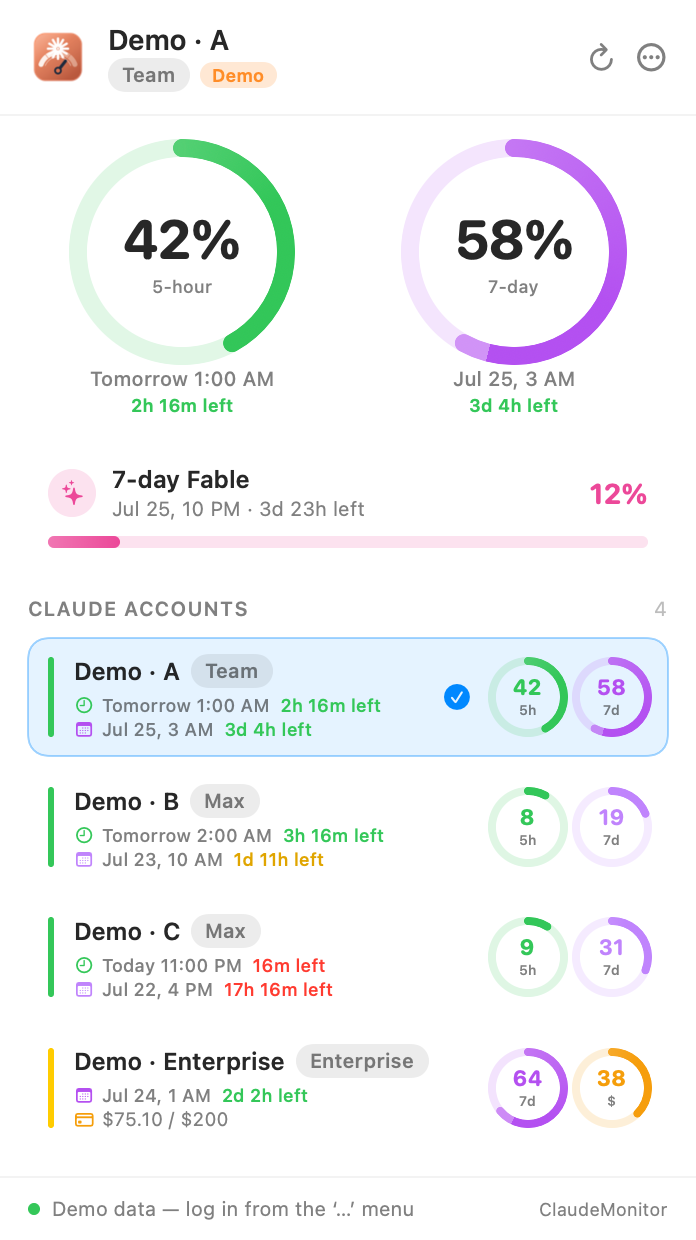
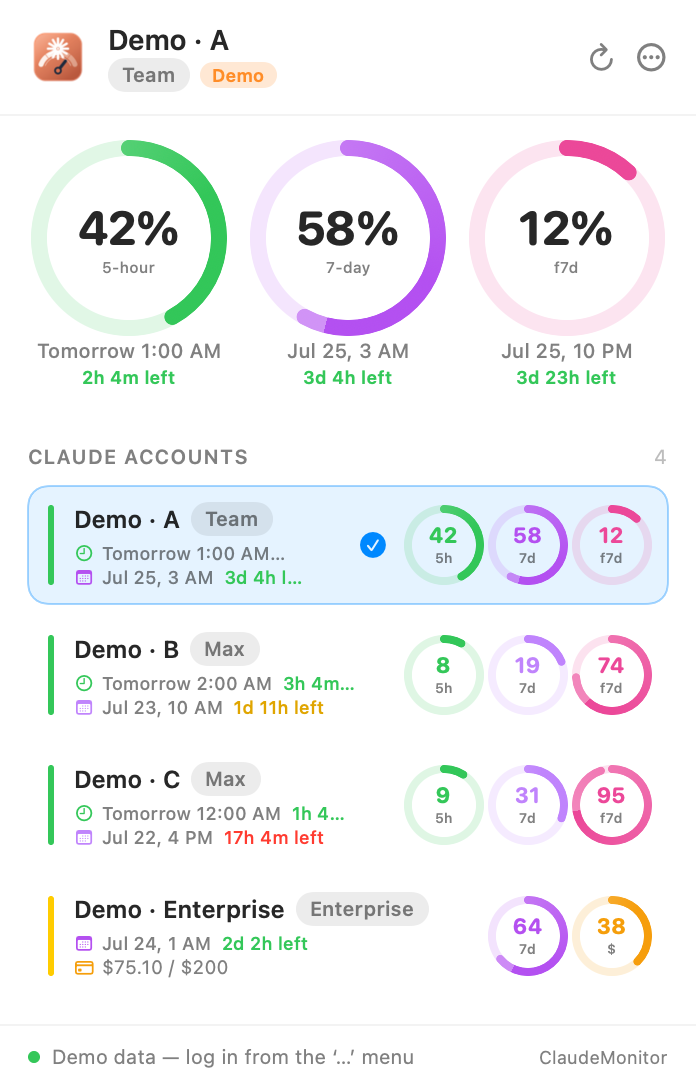
feat: show per-model weekly (Fable) as a ring next to 5h/7d ("f7d")
Fable was rendered as a horizontal bar card; show it as a ring gauge
instead — next to the 5h and 7d rings, both in the hero and in the
account-row mini rings, tagged "f7d".

- Hero: render 5h/7d + each model as ring columns; diameter shrinks to
  90 when there are 3+ rings so they fit the 360px popover
- Account rows: append a model mini ring (f7d) after 5h/7d
- Remove the per-model LimitCard from the limits section (ring replaces it)
- ModelLimit.shortTag → "<first-letter>7d" (Fable → f7d); Theme.modelColor
- Previews regenerated; docs updated; version → 0.1.7

diff --git a/Sources/ClaudeMonitor/Views/UsageSections.swift b/Sources/ClaudeMonitor/Views/UsageSections.swift
@@ -24,19 +24,16 @@ struct UsageSections: View {
     @ViewBuilder
     private var heroSection: some View {
         let usage = state.activeUsage
-        let five = usage?.fiveHour
-        let seven = usage?.sevenDay
+        let rings = heroRings(usage)
 
-        if five != nil || seven != nil {
-            // 5시간 / 7일 한도를 컴팩트한 원형 게이지 2개로 (리셋 시간 포함)
-            HStack(alignment: .top, spacing: 12) {
-                if let five {
-                    ringColumn(pct: five.percentage, color: Theme.fiveHourColor(five.percentage),
-                               title: L.s("5시간", "5-hour"), reset: five.resetsAt, long: false)
-                }
-                if let seven {
-                    ringColumn(pct: seven.percentage, color: Theme.sevenDayColor(seven.percentage),
-                               title: L.s("7일", "7-day"), reset: seven.resetsAt, long: true)
+        if !rings.isEmpty {
+            // 5시간 / 7일 / 모델별(f7d 등) 한도를 컴팩트한 원형 게이지로 (리셋 시간 포함).
+            // 링이 3개 이상이면 폭에 맞게 지름을 줄인다.
+            let diameter: CGFloat = rings.count >= 3 ? 90 : 104
+            HStack(alignment: .top, spacing: rings.count >= 3 ? 8 : 12) {
+                ForEach(rings) { r in
+                    ringColumn(pct: r.pct, color: r.color, title: r.title,
+                               reset: r.reset, long: r.long, diameter: diameter)
                 }
             }
             .padding(.top, 2)
@@ -56,10 +53,33 @@ struct UsageSections: View {
         }
     }
 
+    /// 히어로에 표시할 링 목록 (5h, 7d, 그리고 모델별 f7d 등). API/데모 순서를 유지한다.
+    private func heroRings(_ usage: AccountUsage?) -> [HeroRing] {
+        var arr: [HeroRing] = []
+        if let five = usage?.fiveHour {
+            arr.append(HeroRing(id: "5h", pct: five.percentage,
+                                color: Theme.fiveHourColor(five.percentage),
+                                title: L.s("5시간", "5-hour"), reset: five.resetsAt, long: false))
+        }
+        if let seven = usage?.sevenDay {
+            arr.append(HeroRing(id: "7d", pct: seven.percentage,
+                                color: Theme.sevenDayColor(seven.percentage),
+                                title: L.s("7일", "7-day"), reset: seven.resetsAt, long: true))
+        }
+        for m in usage?.models ?? [] {
+            arr.append(HeroRing(id: m.name, pct: m.usage.percentage,
+                                color: Theme.modelColor(m.name),
+                                title: m.shortTag, reset: m.usage.resetsAt, long: true))
+        }
+        return arr
+    }
+
     /// 히어로의 한 컬럼: 원형 게이지 + 라벨 + 리셋시간/남은시간
-    private func ringColumn(pct: Double, color: Color, title: String, reset: Date?, long: Bool) -> some View {
+    private func ringColumn(pct: Double, color: Color, title: String, reset: Date?,
+                            long: Bool, diameter: CGFloat = 104) -> some View {
         VStack(spacing: 5) {
-            RingGauge(percentage: pct, color: color, lineWidth: 9, diameter: 104, caption: title)
+            RingGauge(percentage: pct, color: color,
+                      lineWidth: diameter >= 104 ? 9 : 8, diameter: diameter, caption: title)
             TimelineView(.periodic(from: .now, by: 30)) { ctx in
                 VStack(spacing: 1) {
                     Text(long ? TimeFmt.resetLong(reset) : TimeFmt.resetShort(reset))
@@ -79,15 +99,9 @@ struct UsageSections: View {
 
     @ViewBuilder
     private var limitsSection: some View {
-        // 5시간/7일은 히어로 듀얼 링이 대신하므로, 여기선 모델별 주간(Fable 등)/Extra 만 카드로.
+        // 5시간/7일/모델별(f7d 등)은 히어로 링이 대신하므로, 여기선 Extra Usage 만 카드로.
         let usage = state.activeUsage
         VStack(spacing: 8) {
-            ForEach(usage?.models ?? []) { model in
-                LimitCard(icon: Theme.modelIcon(model.name),
-                          title: L.s("7일 \(model.name)", "7-day \(model.name)"),
-                          limit: model.usage,
-                          color: Theme.modelColor(model.name))
-            }
             if let extra = usage?.extra, extra.enabled {
                 extraCard(extra)
             }
@@ -142,4 +156,14 @@ struct UsageSections: View {
             }
         }
     }
+}
+
+/// 히어로 링 1개의 스펙 (5h / 7d / 모델별 f7d)
+private struct HeroRing: Identifiable {
+    let id: String
+    let pct: Double
+    let color: Color
+    let title: String
+    let reset: Date?
+    let long: Bool
 }

diff --git a/Sources/ClaudeMonitor/Views/PopoverView.swift b/Sources/ClaudeMonitor/Views/PopoverView.swift
@@ -284,7 +284,7 @@ struct AccountRow: View {
         }
     }
 
-    /// 행에 표시할 링 목록 (5h, 7d; 둘 다 없으면 Extra$)
+    /// 행에 표시할 링 목록 (5h, 7d, 그리고 모델별 f7d 등; 5h/7d 둘 다 없으면 Extra$)
     private var accountRings: [RingSpec] {
         var arr: [RingSpec] = []
         if let five = usage?.fiveHour {
@@ -292,6 +292,9 @@ struct AccountRow: View {
         }
         if let seven = usage?.sevenDay {
             arr.append(RingSpec(tag: "7d", pct: seven.percentage, color: Theme.sevenDayColor(seven.percentage)))
+        }
+        for m in usage?.models ?? [] {
+            arr.append(RingSpec(tag: m.shortTag, pct: m.usage.percentage, color: Theme.modelColor(m.name)))
         }
         if arr.count < 2, let extra = usage?.extra, extra.enabled {
             arr.append(RingSpec(tag: "$", pct: extra.percentage, color: Theme.extraColor))

diff --git a/Sources/ClaudeMonitor/Models/Models.swift b/Sources/ClaudeMonitor/Models/Models.swift
@@ -133,6 +133,9 @@ struct ModelLimit: Sendable, Equatable, Identifiable {
     let name: String
     let usage: LimitUsage
     var id: String { name }
+
+    /// 링/미니링에 쓰는 짧은 태그 — 모델 첫 글자 + "7d" (예: Fable → "f7d", Opus → "o7d")
+    var shortTag: String { "\(name.prefix(1).lowercased())7d" }
 }
 
 /// Extra Usage(추가 결제 사용액)

diff --git a/CLAUDE.md b/CLAUDE.md
@@ -36,7 +36,7 @@ Demo data, the "Demo mode" toggle, the demo badge, and the `CTM_PREVIEW_OUT` / `
 
 ## Design rules
 
-- Hero = active account's 5h + 7d as dual ring gauges (each with reset time + remaining below). Account rows show 5h(green)/7d(purple) mini rings.
+- Hero = active account's 5h + 7d + each per-model weekly limit as ring gauges (each with reset time + remaining below); ring diameter shrinks to fit when there are 3+. Model rings use the short tag `<first-letter>7d` (e.g. Fable → `f7d`) as caption. Account rows show the same set as mini rings: 5h(green)/7d(purple)/model(e.g. Fable pink). `ModelLimit.shortTag` produces the tag; `Theme.modelColor` the color.
 - Remaining-time color — `TimeFmt.remainingColor(_, longCycle:)`: 5h → red <1h else green; 7d → red <1d, gold(`0xE0A500`) <2d, else green.
 - All user-facing strings go through `L.s(...)`; `TimeFmt` is locale-aware; language picker in Settings (System/EN/KO).
 

diff --git a/README.md b/README.md
@@ -28,7 +28,7 @@
 ## Features
 
 - 📊 Menu-bar label with the active account's 5h / 7d usage in color
-- 🎯 Popover: dual ring gauges (5-hour + 7-day) with reset time and remaining time, plus per-model weekly cards (e.g. Fable) and an Extra Usage card
+- 🎯 Popover: ring gauges for 5-hour / 7-day / per-model weekly (e.g. `f7d` for Fable) with reset time and remaining time, plus an Extra Usage card
 - 👥 Multi-account / multi-org: every organization reachable by one session key is registered automatically; switch with a tap
 - ⏱ Remaining-time colors: 5h → red under 1 hour; 7d → red under 1 day, gold under 2 days, else green
 - 🌐 Built-in browser (WKWebView) login auto-extracts the session key; manual paste also supported
